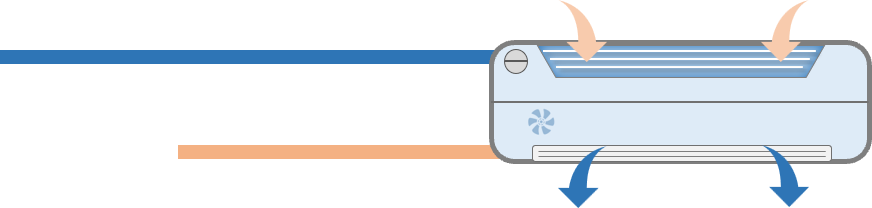
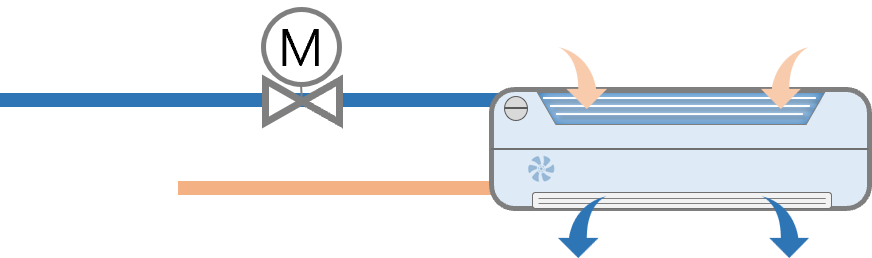
난방, 냉방,급탕 공급설비 이미지 수정 및 급탕 폼 수정

Changed region(s): [[0.0, 0.0, 1.0, 1.0]]

diff --git a/main/contents/System/DHWSystem.cs b/main/contents/System/DHWSystem.cs
@@ -157,8 +157,8 @@ namespace main.contents
             if(radioButton1.Checked)
             {
                 ce1_pictureBox.Visible = true;
-                ce1_pictureBox.Size = new System.Drawing.Size(260, 60);
-                ce1_pictureBox.Location = new Point(250, 10);
+                ce1_pictureBox.Size = new System.Drawing.Size(360, 90); //260,60
+                ce1_pictureBox.Location = new Point(180, 8); //250,10
                 ce1_pictureBox.Load(Program.gPath + "images/HeatingSystem/Old/Wsup.png"); 
                 ce1_pictureBox.SizeMode = PictureBoxSizeMode.Zoom;
                 ce1_pictureBox.BackColor = Color.Transparent;
@@ -167,8 +167,8 @@ namespace main.contents
             else
             {
                 ce1_pictureBox.Visible = true;
-                ce1_pictureBox.Size = new System.Drawing.Size(260, 60);
-                ce1_pictureBox.Location = new Point(250, 10);
+                ce1_pictureBox.Size = new System.Drawing.Size(360, 90);
+                ce1_pictureBox.Location = new Point(180, 8);
                 ce1_pictureBox.Load(Program.gPath + "images/HeatingSystem/New/Wsup.png");
                 ce1_pictureBox.SizeMode = PictureBoxSizeMode.Zoom;
                 ce1_pictureBox.BackColor = Color.Transparent;
